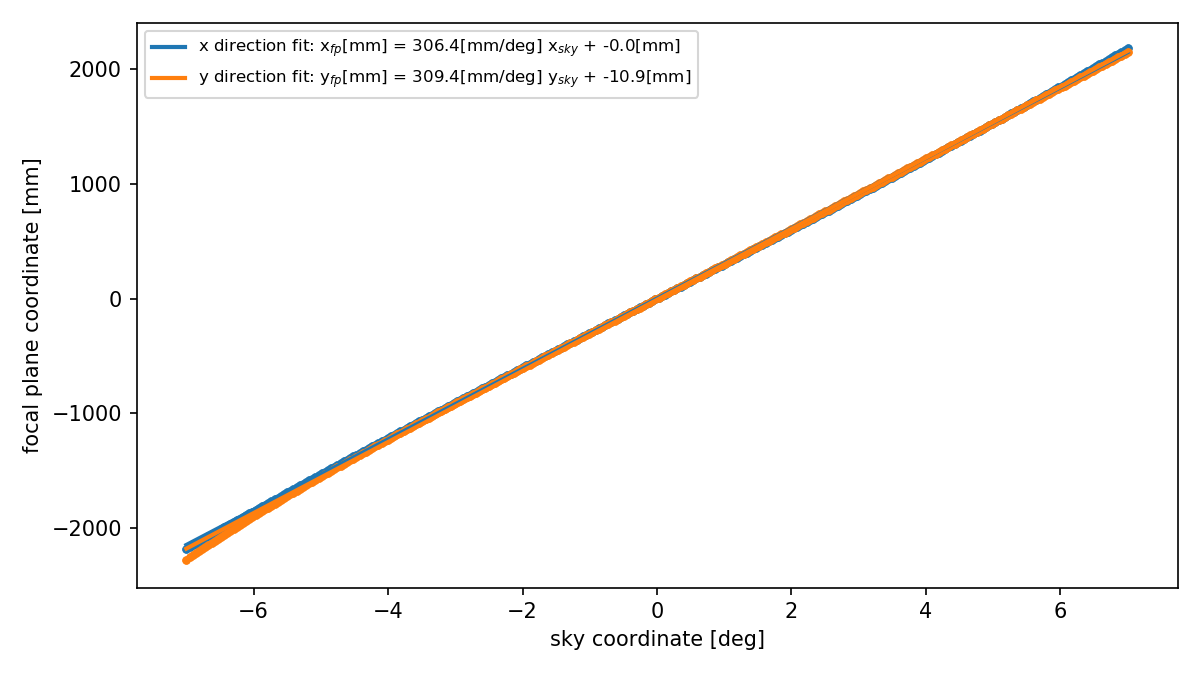
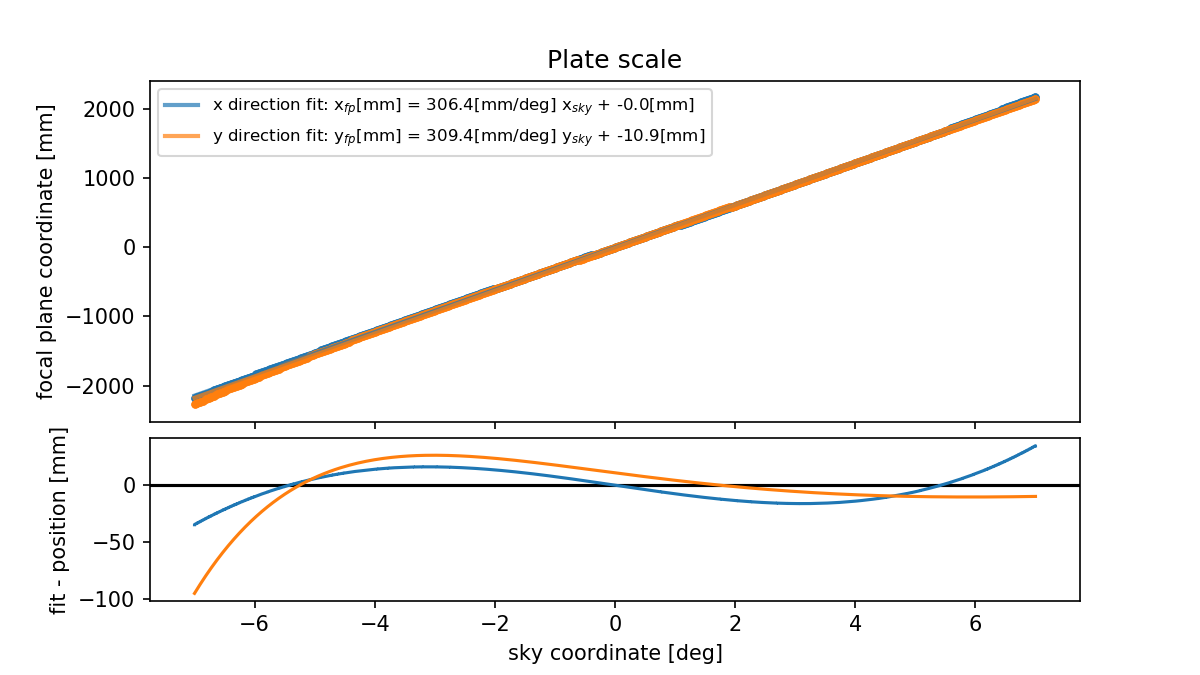
added distortion plots

diff --git a/design_analysis/MDN_F3p3/readme.md b/design_analysis/MDN_F3p3/readme.md
@@ -11,3 +11,5 @@
 ## Chief Ray Angles
 ![](chief_ray/chief_ray_angles_hist.png)
 ![](chief_ray/chief_ray_angles_map.png)
+## distortion
+![](distortion/distortion.png)

diff --git a/design_analysis/PAG_F3p0/readme.md b/design_analysis/PAG_F3p0/readme.md
@@ -11,3 +11,5 @@
 ## Chief Ray Angles
 ![](chief_ray/chief_ray_angles_hist.png)
 ![](chief_ray/chief_ray_angles_map.png)
+## distortion
+![](distortion/distortion.png)

diff --git a/design_analysis/PAG_F3p0_Expoly/readme.md b/design_analysis/PAG_F3p0_Expoly/readme.md
@@ -11,3 +11,5 @@
 ## Chief Ray Angles
 ![](chief_ray/chief_ray_angles_hist.png)
 ![](chief_ray/chief_ray_angles_map.png)
+## distortion
+![](distortion/distortion.png)

diff --git a/design_analysis/PAG_F3p4/readme.md b/design_analysis/PAG_F3p4/readme.md
@@ -11,3 +11,5 @@
 ## Chief Ray Angles
 ![](chief_ray/chief_ray_angles_hist.png)
 ![](chief_ray/chief_ray_angles_map.png)
+## distortion
+![](distortion/distortion.png)

diff --git a/design_analysis/RH_2p75/readme.md b/design_analysis/RH_2p75/readme.md
@@ -10,3 +10,5 @@
 ## Chief Ray Angles
 ![](chief_ray/chief_ray_angles_hist.png)
 ![](chief_ray/chief_ray_angles_map.png)
+## distortion
+![](distortion/distortion.png)

diff --git a/design_analysis/RH_F3p0/readme.md b/design_analysis/RH_F3p0/readme.md
@@ -11,3 +11,5 @@
 ## Chief Ray Angles
 ![](chief_ray/chief_ray_angles_hist.png)
 ![](chief_ray/chief_ray_angles_map.png)
+## distortion
+![](distortion/distortion.png)

diff --git a/design_analysis/TmaV1_SP/readme.md b/design_analysis/TmaV1_SP/readme.md
@@ -11,3 +11,5 @@
 ## Chief Ray Angles
 ![](chief_ray/chief_ray_angles_hist.png)
 ![](chief_ray/chief_ray_angles_map.png)
+## distortion
+![](distortion/distortion.png)

diff --git a/design_analysis/RH_3p75_10x10/readme.md b/design_analysis/RH_3p75_10x10/readme.md
@@ -1,4 +1,4 @@
-# ExPolf3.5F12x8.zmx
+# ExPolf3.5F10x10.zmx
 ## Layout
 ## Strehl Ratios
 ![](strehls/focal_plane_strehls.png)
